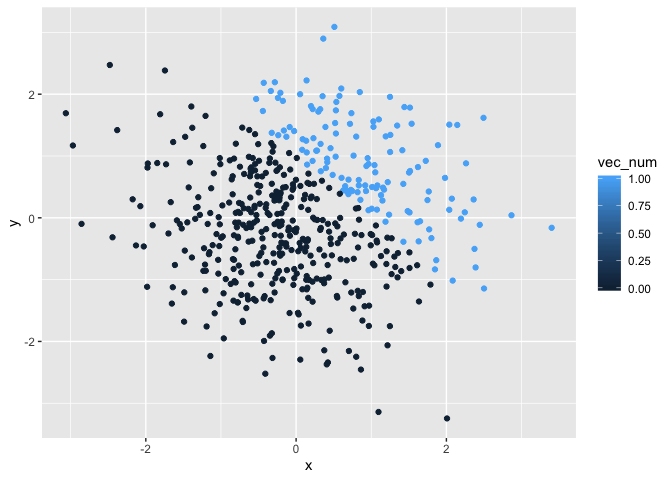
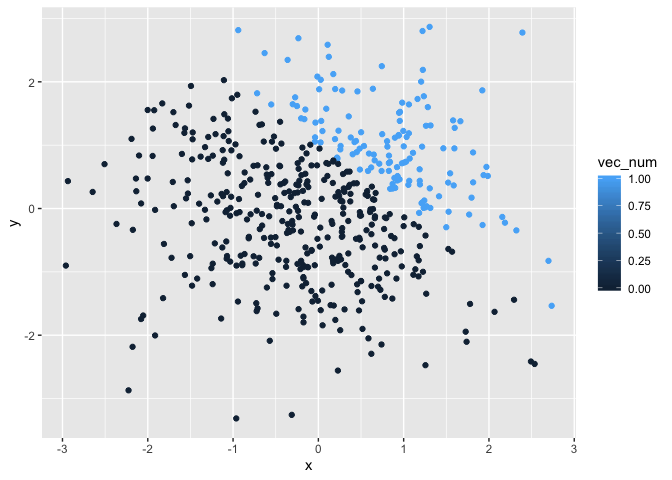
Made some changes in the comments.

diff --git a/p8105_hw1_Ec3342.md b/p8105_hw1_Ec3342.md
@@ -12,14 +12,8 @@ first\_df comprised of a random sample named norm\_samp of size 8 from a
 *standard normal distribution*, a logical vector named vec\_log
 indicating whether elements of the sample are greater than 0, a
 character vector named vec\_char of length 8 and a factor vector named
-vec\_factor of length 8, with 3 different factor levels- Here the three
-levels are 1,2 and 3. After creating the data frame, I tried taking the
-mean of each variable in the data frame. I got the mean of the random
-sample (norm\_samp) and the logical vector (vec\_log).However, when I
-tried taking the mean of the character vector (vec\_char) and the factor
-vector (vec\_factor), I got an error saying the argument is not numeric
-or logical:returning
-    N/A.
+vec\_factor of length 8, with 3 different factor
+    levels.
 
 ``` r
 library(tidyverse)
@@ -46,13 +40,13 @@ first_df = tibble(
 mean(pull(first_df,norm_samp)) 
 ```
 
-    ## [1] -0.1101384
+    ## [1] 0.2997559
 
 ``` r
 mean(pull(first_df,vec_log))
 ```
 
-    ## [1] 0.625
+    ## [1] 0.375
 
 ``` r
 mean(pull(first_df,vec_char))
@@ -71,6 +65,13 @@ mean(pull(first_df,vec_factor))
     ## numeric or logical: returning NA
 
     ## [1] NA
+
+\#After creating the data frame, I tried taking the mean of each
+variable in the data frame. I got the mean of the random sample
+(norm\_samp) and the logical vector (vec\_log).However, when I tried
+taking the mean of the character vector (vec\_char) and the factor
+vector (vec\_factor), I got an error saying the argument is not numeric
+or logical:returning N/A.
 
 \#Now writing a **code chunk** to apply the **as.numeric** function to
 the logical, character, and factor variables. Hiding the output by
@@ -111,8 +112,7 @@ vector into numeric and then multiplied that with the random
 as.numeric(pull(first_df,vec_log))*(pull(first_df,norm_samp))
 ```
 
-    ## [1] 0.00000000 0.88538501 1.38304062 0.37094664 0.00000000 0.00000000
-    ## [7] 0.91530900 0.09163454
+    ## [1] 2.183197 1.240761 0.000000 1.474845 0.000000 0.000000 0.000000 0.000000
 
 ``` r
 as.factor(pull(first_df,vec_log))*(pull(first_df,norm_samp))
@@ -127,8 +127,8 @@ as.factor(pull(first_df,vec_log))*(pull(first_df,norm_samp))
 as.numeric(as.factor(pull(first_df,vec_log)))*(pull(first_df,norm_samp))
 ```
 
-    ## [1] -1.0209946  1.7707700  2.7660812  0.7418933 -0.3303809 -3.1760476
-    ## [7]  1.8306180  0.1832691
+    ## [1]  4.36639454  2.48152238 -1.71443734  2.94969061 -0.04417041 -0.04481098
+    ## [7] -0.53416384 -0.16317409
 
 # Question 2
 
@@ -156,10 +156,10 @@ vec_fac = as.factor(vec_log2),
 ## Description of the dataframe
 
   - The size of the dataframe is 500 and the number of columns are 5
-  - The mean of x is 0.0327471
-  - The median of x is -0.0363527
-  - The standard deviation of x is 0.9995958
-  - The proportion of cases for which x + y \> 1 is 0.262
+  - The mean of x is 0.0137945
+  - The median of x is 0.0466375
+  - The standard deviation of x is 1.0165461
+  - The proportion of cases for which x + y \> 1 is 0.274
 
 ## Scatterplot
 
